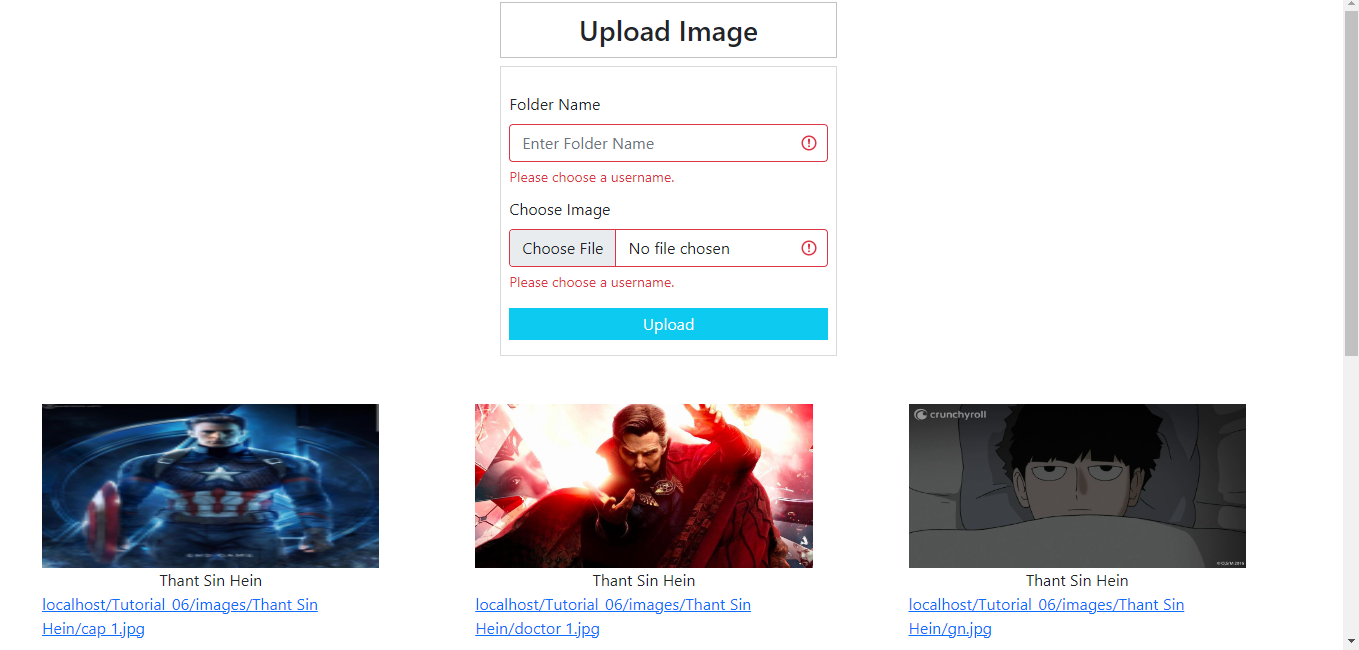
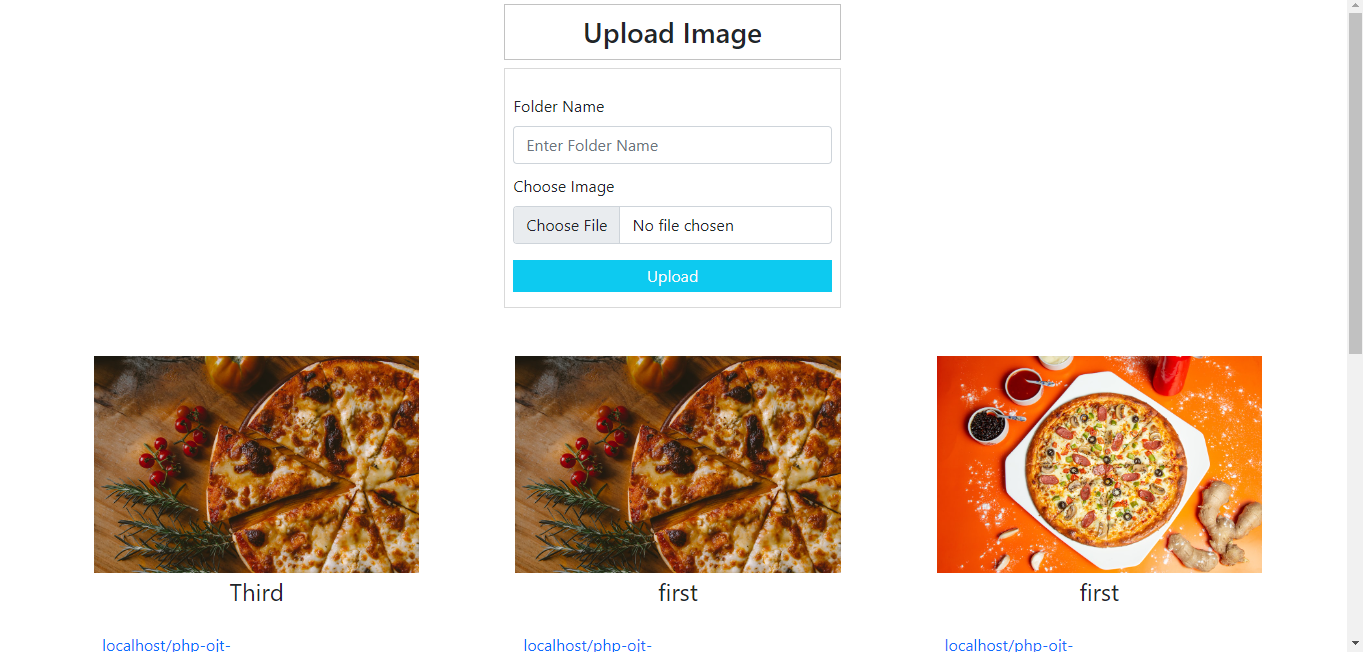
Add files via upload

diff --git a/Tutorial_06/upload.php b/Tutorial_06/upload.php
@@ -1,46 +1,27 @@
-<?php
-if (isset($_POST['store'])) {
-  	$folderName =$_POST['file'];
-  	$path = "images/$folderName";
-  
-  	$imgName=$_FILES['fileimg']['name'];
-  	$tmp=$_FILES['fileimg']['tmp_name'];
+<?php 
+$files = glob('images/*/*.jpg');
+echo "<div class='ms-5 mt-5'>";
+foreach ($files as $file) {
+  	$folder=basename(dirname($file));
+    echo "<div class='w-25  d-inline-block ms-5 me-5'>";
+    echo "<img src='$file' class='w-100 h-50'>";
+    echo "<p class='text-center mb-0 fs-4'>$folder</p><br>";
+    echo "<p class='ms-2 mt-0 w-100'><a href='$file' class=' mt-0 '>localhost/php-ojt-tutorials/Tutorial_06/$file</a></p>";
 
-  	$target_file= "images/$folderName/".$imgName;
-  	$image_file="images/$folderName/$imgName";
-
-  	$folder_dir="images/";
-  	$folder=scandir($folder_dir);
-  	$file_dir="images/$folderName/";
-  	$fileImage=scandir($file_dir);
-  
-
-  	for ($i=0; $i < count($fileImage); $i++) { 
-    	if ($fileImage[$i] != '.' && $fileImage[$i] != '..') {
-      	//echo $fileImage[$i];
-      	$filePath='images/$folderName/$fileImage[$i]';
-      	echo "<div class='w-25  mb-5 mt-5 d-inline-block ms-5 me-5'>";
-     
-      	echo "<img src='$file_dir$fileImage[$i]' alt='Image' class='w-100 h-25'>";
-      	echo "<p class='text-center mb-0'>$folderName</p>";
-      	echo "<a href='images/$folderName/$fileImage[$i]' class='mb-5 '>localhost/Tutorial_06/images/$folderName/$fileImage[$i]</a>";
-     
-      	echo "<form method='post' class='w-100'>";
-      	echo "<input type='hidden' name='file_path' value='images/$folderName/$fileImage[$i]'>";
-      	echo "<input type='submit' class='w-100 pt-2 pb-2 text-dark bg-danger border-0 mb-2' name='delete' value='delete'>";
-      	echo "</form>";
-    	echo "</div>";
-    }
+    echo "<form method='post' class='w-100'>";
+    echo "<input type='hidden' name='file_path' value='$file'>";
+    echo "<input type='submit' class='w-100 pt-2 pb-2 text-dark bg-danger border-0 mb-2' name='delete' value='delete'>";
+    echo "</form>";
+    echo "</div>";
 }
-
-}
+echo "</div>";
 if (isset($_POST['delete'])) {
 	$filePath = $_POST['file_path'];
 	if (file_exists($filePath)) {
 		unlink($filePath);
 		echo "<script>alert('File deleted: $filePath')</script>";
-	} else {
-		echo "File not found: $filePath";
-	} 
+    	header("Refresh:0");
+		ob_end_flush();
+	}
   }
 ?>

diff --git a/Tutorial_06/index.php b/Tutorial_06/index.php
@@ -1,5 +1,5 @@
 <?php
-
+error_reporting(E_ALL ^ E_WARNING);
 if (isset($_POST['store'])) {
   	$folderName =$_POST['file'];
   	$path = "images/$folderName";
@@ -7,7 +7,6 @@ if (isset($_POST['store'])) {
     $newFolder=mkdir("images"."/$folderName",0777,true);
     $imgName=$_FILES['fileimg']['name'];
     $tmp=$_FILES['fileimg']['tmp_name'];
-
     $target_file= "images/$folderName/".$imgName;
     $image_file="images/$folderName/$imgName";
     if (file_exists("images/$folderName/$imgName")) {
@@ -21,25 +20,24 @@ if (isset($_POST['store'])) {
             echo "error";
         }
     }
-  }
-  else {
-    $imgName=$_FILES['fileimg']['name'];
-    $tmp=$_FILES['fileimg']['tmp_name'];
-
-    $target_file= "images/$folderName/".$imgName;
-    if (file_exists("images/$folderName/$imgName")) {
-        echo "<script>alert('Your image is already exit.')</script>";
     }
     else {
-        if (move_uploaded_file($tmp,$target_file)) {
-            move_uploaded_file($tmp,$target_file);
-            echo "<p class='bg-info w-25 ms-auto me-auto mt-4 mb-0 p-3 text-primary'>Upload Image Successfully!</p>";
-        }else{
-            echo "error";
+        $imgName=$_FILES['fileimg']['name'];
+        $tmp=$_FILES['fileimg']['tmp_name'];
+
+        $target_file= "images/$folderName/".$imgName;
+        if (file_exists("images/$folderName/$imgName")) {
+            echo "<script>alert('Your image is already exit.')</script>";
+        }
+        else {
+            if (move_uploaded_file($tmp,$target_file)) {
+                move_uploaded_file($tmp,$target_file);
+                echo "<p class='bg-info w-25 ms-auto me-auto mt-4 mb-0 p-3 text-primary'>Upload Image Successfully!</p>";
+            }else{
+                echo "error";
+             }
         }
     }
-   
-  }
 }
 ?>
 <!DOCTYPE html>
@@ -68,11 +66,6 @@ if (isset($_POST['store'])) {
     <input type="submit" value="Upload" name="store" class="bg-info text-light w-100 mt-3 border-0">
   </form>
   </div>
-  
-  
-<?php 
-include('upload.php');
-?>
 
 
 <script src="lib/js/bootstrap.bundle.min.js"></script>
@@ -82,4 +75,6 @@ include('upload.php');
 </script>
 </body>
 </html>
-
+<?php
+include('upload.php');
+?>
